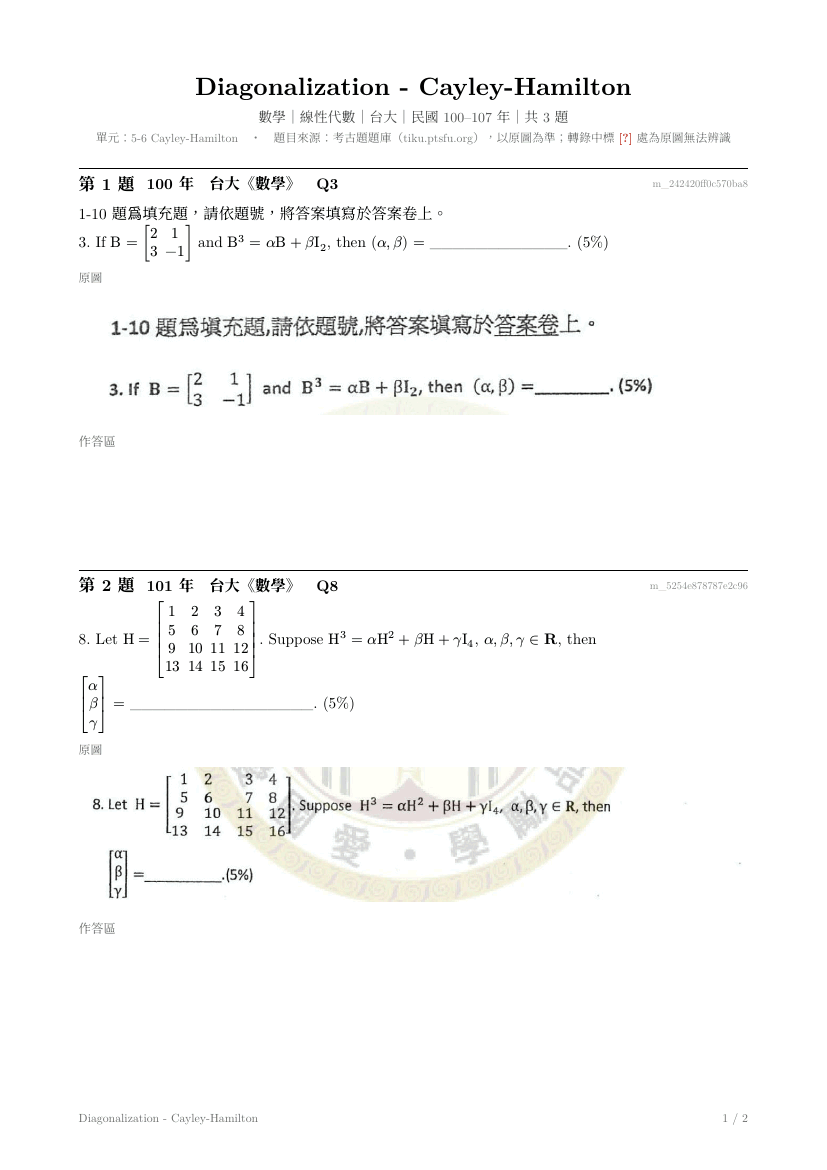
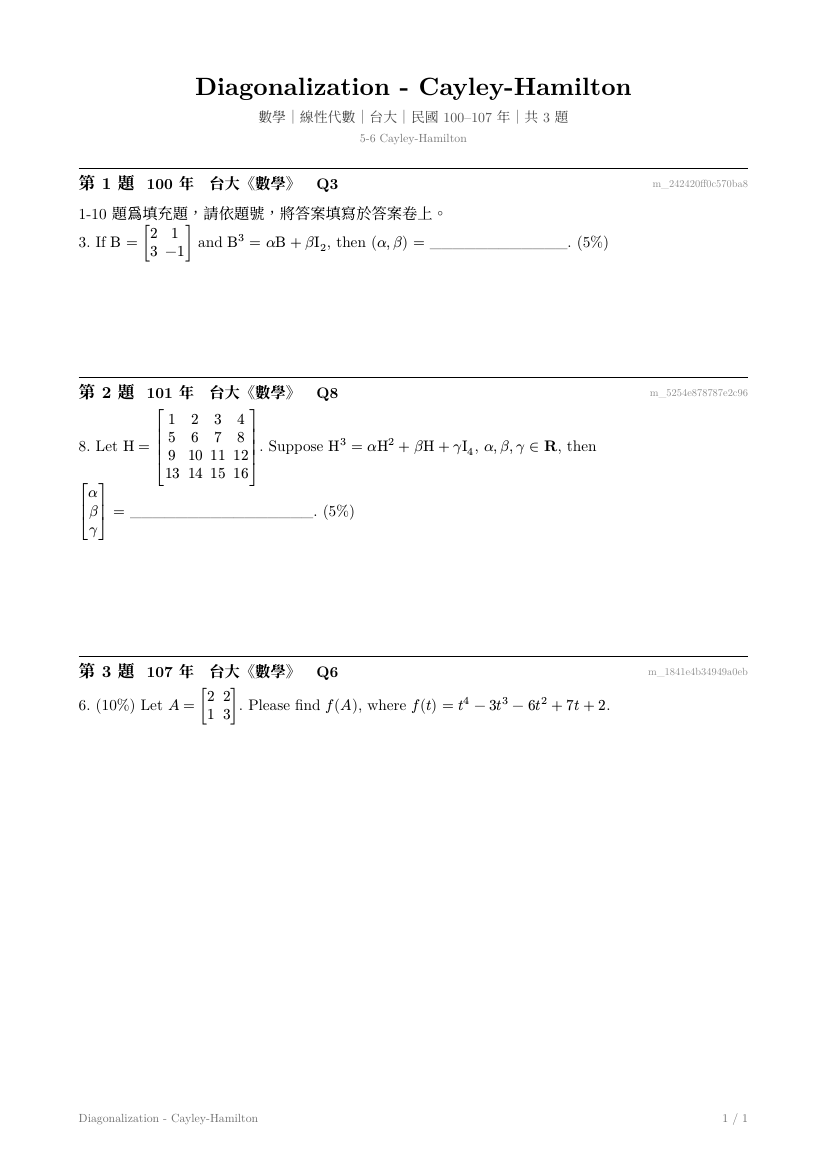
Workbook layout: drop full original images, labels and code shading
Per review of the trial:
- no full original image per question; only figures/diagrams are embedded,
  cropped from the original (fig directive in the transcription)
- code blocks have no background, for printing
- header keeps only the unit name; the source/disclaimer line is removed
- answer space is plain blank space without the 作答區 label
- previews regenerated

Claude-Session: https://claude.ai/code/session_01SnDy9j9kHdRMiHxdZ7c83s

diff --git a/Practice Exams/_tools/build.py b/Practice Exams/_tools/build.py
@@ -2,7 +2,10 @@
 
 Source folder layout (Practice Exams/_src/<group>/<chapter>/<chapter> - <topic>/):
   manifest.json   unit metadata + questions (id, year, school, paper, qnum, url)
-  <id>.md         hand transcription (Markdown + LaTeX math), one per question
+  <id>.md         hand transcription (Markdown + LaTeX math), one per question.
+                  A line `<!-- fig x0 y0 x1 y1 -->` (fractions of the deskewed original image)
+                  embeds that crop of the original -- used only for figures/diagrams,
+                  which are never redrawn.
   deskew.json     written by this script: detected skew angle per image
 
 Images are downloaded to a cache dir (default ~/.cache/tiku, override with TIKU_CACHE);
@@ -68,10 +71,34 @@ def prepare_image(q, skew):
     return out, w, h, info
 
 
-def md_to_typst(md_path):
+FIG_RE = re.compile(r"^<!--\s*fig\s+([\d.]+)\s+([\d.]+)\s+([\d.]+)\s+([\d.]+)\s*-->\s*$", re.M)
+
+
+def crop_figures(q, md_text, img_path):
+    """Replace fig directives with placeholders; return (md, {placeholder: typst call})."""
+    calls = {}
+
+    def sub(m):
+        k = len(calls)
+        x0, y0, x1, y1 = map(float, m.groups())
+        im = Image.open(img_path)
+        box = (round(x0 * im.width), round(y0 * im.height), round(x1 * im.width), round(y1 * im.height))
+        out = CACHE / "crop" / f"{q['id']}-{k}.jpg"
+        out.parent.mkdir(parents=True, exist_ok=True)
+        c = im.crop(box)
+        c.save(out, quality=90, optimize=True)
+        token = f"FIGCROP{k}XX"
+        # keep the figure at the scale it has on the original page (page width -> 17 cm)
+        calls[token] = f"#fig-crop({tstr(str(out))}, {c.width}, {c.height}, {x1 - x0:.3f})"
+        return token
+
+    return FIG_RE.sub(sub, md_text), calls
+
+
+def md_to_typst(md_text):
     r = subprocess.run(
-        ["pandoc", "--wrap=none", "-f", "markdown-fancy_lists-implicit_figures", "-t", "typst", str(md_path)],
-        capture_output=True, text=True, check=True)
+        ["pandoc", "--wrap=none", "-f", "markdown-fancy_lists-implicit_figures", "-t", "typst"],
+        input=md_text, capture_output=True, text=True, check=True)
     # plain monochrome code for printing: drop the language tag so typst does not colour it
     out = re.sub(r"^```\w+$", "```", r.stdout, flags=re.M)
     # pandoc does not escape typst list markers at line start ("2. ...", "+ ...", "- ...")
@@ -106,15 +133,20 @@ def build(src, out_pdf):
         md = src / f"{q['id']}.md"
         if not md.exists():
             raise SystemExit(f"missing transcription: {md}")
-        img, w, h, info = prepare_image(q, skew)
-        content = md_to_typst(md)
+        md_text = md.read_text()
+        calls = {}
+        if FIG_RE.search(md_text):
+            img, _, _, _ = prepare_image(q, skew)
+            md_text, calls = crop_figures(q, md_text, img)
+        content = md_to_typst(md_text)
+        for token, call in calls.items():
+            if token not in content:
+                raise SystemExit(f"figure placeholder lost for {q['id']}")
+            content = content.replace(token, call)
         src_line = f"{q['year']} 年　{q['school']}《{q['paper']}》　{q['qnum']}"
-        note = f"原圖（已校正歪斜 {abs(info['angle']):.1f}°）" if info["corrected"] else "原圖"
         body.append(f"""
 #question({i}, {tstr(src_line)}, {tstr(q['id'])})[
 {content}
-][
-#figure-orig({tstr(str(img))}, {w}, {h}, {tstr(note)})
 ]
 """)
     skew_path.write_text(json.dumps(skew, ensure_ascii=False, indent=1) + "\n")
@@ -133,23 +165,19 @@ def build(src, out_pdf):
 #show math.mat: it => math.display(it)
 #show math.cases: it => math.display(it)
 #show raw: set text(font: ("DejaVu Sans Mono", "Noto Serif TC"), size: 9.5pt)
-#show raw.where(block: true): it => block(width: 100%, fill: luma(246), inset: 7pt, radius: 2pt, it)
+#show raw.where(block: true): it => block(width: 100%, inset: (left: 1.2em, y: 4pt), it)
 #show "[?]": it => text(fill: rgb("#c0392b"), weight: "bold", it)
 #let blockquote(body) = block(inset: (left: 8pt), stroke: (left: 1.5pt + luma(170)), text(size: 9.5pt, fill: luma(70), body))
 #let horizontalrule = line(length: 100%, stroke: 0.5pt + luma(170))
 
-#let figure-orig(path, w, h, note) = {{
-  let maxw = 17cm
-  let maxh = 21cm
-  let width = calc.min(maxw / 1cm, maxh / 1cm * w / h) * 1cm
-  v(0.4em)
-  block(width: 100%, breakable: false, {{
-    text(size: 8.5pt, fill: luma(110), note)
-    align(center, box(stroke: 0.4pt + luma(190), image(path, width: width)))
-  }})
+// a figure cropped from the original scan (figures are embedded, never redrawn)
+#let fig-crop(path, w, h, frac) = {{
+  let maxh = 18cm
+  let width = calc.min(17 * frac, maxh / 1cm * w / h) * 1cm
+  block(width: 100%, align(center, image(path, width: width)))
 }}
 
-#let question(n, src, qid, body, fig) = {{
+#let question(n, src, qid, body) = {{
   // header + transcription stay together so a header never dangles at a page bottom
   block(width: 100%, breakable: false, {{
     line(length: 100%, stroke: 0.8pt)
@@ -161,9 +189,7 @@ def build(src, out_pdf):
     v(0.3em)
     body
   }})
-  fig
-  v(0.6em)
-  text(size: 9pt, fill: luma(110))[作答區]
+  // blank space for working / answers (about 4 lines)
   v(4 * 1.8em)
 }}
 
@@ -171,7 +197,7 @@ def build(src, out_pdf):
   #text(size: 18pt, weight: "bold", {tstr(title)}) \\
   #v(0.2em)
   #text(size: 10pt, fill: luma(80))[{group}｜{man['subject']}｜{schools}｜民國 100–107 年｜共 {len(qs)} 題] \\
-  #text(size: 8.5pt, fill: luma(120))[單元：{man['unit_key']}　・　題目來源：考古題題庫（tiku.ptsfu.org），以原圖為準；轉錄中標 [?] 處為原圖無法辨識]
+  #text(size: 8.5pt, fill: luma(120), {tstr(man['unit_key'])})
 ]
 #v(0.8em)
 {''.join(body)}

diff --git a/Practice Exams/_preview/README.md b/Practice Exams/_preview/README.md
@@ -1,73 +1,45 @@
 # 試跑題本預覽
 
-手機上 GitHub 不會預覽 Git LFS 存的 PDF，所以這裡把每一頁轉成圖片（100 dpi）。原始 PDF 和這些圖片在同一個分支。
+手機上 GitHub 不會預覽 Git LFS 存的 PDF，所以這裡把每一頁轉成圖片（100 dpi）。
 
 ## 數學｜Diagonalization - Cayley-Hamilton
 
-2 頁　・　[PDF](../%E6%95%B8%E5%AD%B8/Diagonalization/Diagonalization%20-%20Cayley-Hamilton.pdf)
+1 頁　・　[PDF](../%E6%95%B8%E5%AD%B8/Diagonalization/Diagonalization%20-%20Cayley-Hamilton.pdf)
 
 ![Diagonalization - Cayley-Hamilton 第 1 頁](%E6%95%B8%E5%AD%B8/Diagonalization/Diagonalization%20-%20Cayley-Hamilton/p-1.png)
 
-![Diagonalization - Cayley-Hamilton 第 2 頁](%E6%95%B8%E5%AD%B8/Diagonalization/Diagonalization%20-%20Cayley-Hamilton/p-2.png)
-
 ## 計系｜Process - Process Tree, fork(), wait(), Zombie, Orphan
 
-16 頁　・　[PDF](../%E8%A8%88%E7%B3%BB/Process/Process%20-%20Process%20Tree%2C%20fork%28%29%2C%20wait%28%29%2C%20Zombie%2C%20Orphan.pdf)
+8 頁　・　[PDF](../%E8%A8%88%E7%B3%BB/Process/Process%20-%20Process%20Tree%2C%20fork%28%29%2C%20wait%28%29%2C%20Zombie%2C%20Orphan.pdf)
 
-![Process - Process Tree, fork(), wait(), Zombie, Orphan 第 1 頁](%E8%A8%88%E7%B3%BB/Process/Process%20-%20Process%20Tree%2C%20fork%28%29%2C%20wait%28%29%2C%20Zombie%2C%20Orphan/p-01.png)
+![Process - Process Tree, fork(), wait(), Zombie, Orphan 第 1 頁](%E8%A8%88%E7%B3%BB/Process/Process%20-%20Process%20Tree%2C%20fork%28%29%2C%20wait%28%29%2C%20Zombie%2C%20Orphan/p-1.png)
 
-![Process - Process Tree, fork(), wait(), Zombie, Orphan 第 2 頁](%E8%A8%88%E7%B3%BB/Process/Process%20-%20Process%20Tree%2C%20fork%28%29%2C%20wait%28%29%2C%20Zombie%2C%20Orphan/p-02.png)
+![Process - Process Tree, fork(), wait(), Zombie, Orphan 第 2 頁](%E8%A8%88%E7%B3%BB/Process/Process%20-%20Process%20Tree%2C%20fork%28%29%2C%20wait%28%29%2C%20Zombie%2C%20Orphan/p-2.png)
 
-![Process - Process Tree, fork(), wait(), Zombie, Orphan 第 3 頁](%E8%A8%88%E7%B3%BB/Process/Process%20-%20Process%20Tree%2C%20fork%28%29%2C%20wait%28%29%2C%20Zombie%2C%20Orphan/p-03.png)
+![Process - Process Tree, fork(), wait(), Zombie, Orphan 第 3 頁](%E8%A8%88%E7%B3%BB/Process/Process%20-%20Process%20Tree%2C%20fork%28%29%2C%20wait%28%29%2C%20Zombie%2C%20Orphan/p-3.png)
 
-![Process - Process Tree, fork(), wait(), Zombie, Orphan 第 4 頁](%E8%A8%88%E7%B3%BB/Process/Process%20-%20Process%20Tree%2C%20fork%28%29%2C%20wait%28%29%2C%20Zombie%2C%20Orphan/p-04.png)
+![Process - Process Tree, fork(), wait(), Zombie, Orphan 第 4 頁](%E8%A8%88%E7%B3%BB/Process/Process%20-%20Process%20Tree%2C%20fork%28%29%2C%20wait%28%29%2C%20Zombie%2C%20Orphan/p-4.png)
 
-![Process - Process Tree, fork(), wait(), Zombie, Orphan 第 5 頁](%E8%A8%88%E7%B3%BB/Process/Process%20-%20Process%20Tree%2C%20fork%28%29%2C%20wait%28%29%2C%20Zombie%2C%20Orphan/p-05.png)
+![Process - Process Tree, fork(), wait(), Zombie, Orphan 第 5 頁](%E8%A8%88%E7%B3%BB/Process/Process%20-%20Process%20Tree%2C%20fork%28%29%2C%20wait%28%29%2C%20Zombie%2C%20Orphan/p-5.png)
 
-![Process - Process Tree, fork(), wait(), Zombie, Orphan 第 6 頁](%E8%A8%88%E7%B3%BB/Process/Process%20-%20Process%20Tree%2C%20fork%28%29%2C%20wait%28%29%2C%20Zombie%2C%20Orphan/p-06.png)
+![Process - Process Tree, fork(), wait(), Zombie, Orphan 第 6 頁](%E8%A8%88%E7%B3%BB/Process/Process%20-%20Process%20Tree%2C%20fork%28%29%2C%20wait%28%29%2C%20Zombie%2C%20Orphan/p-6.png)
 
-![Process - Process Tree, fork(), wait(), Zombie, Orphan 第 7 頁](%E8%A8%88%E7%B3%BB/Process/Process%20-%20Process%20Tree%2C%20fork%28%29%2C%20wait%28%29%2C%20Zombie%2C%20Orphan/p-07.png)
+![Process - Process Tree, fork(), wait(), Zombie, Orphan 第 7 頁](%E8%A8%88%E7%B3%BB/Process/Process%20-%20Process%20Tree%2C%20fork%28%29%2C%20wait%28%29%2C%20Zombie%2C%20Orphan/p-7.png)
 
-![Process - Process Tree, fork(), wait(), Zombie, Orphan 第 8 頁](%E8%A8%88%E7%B3%BB/Process/Process%20-%20Process%20Tree%2C%20fork%28%29%2C%20wait%28%29%2C%20Zombie%2C%20Orphan/p-08.png)
-
-![Process - Process Tree, fork(), wait(), Zombie, Orphan 第 9 頁](%E8%A8%88%E7%B3%BB/Process/Process%20-%20Process%20Tree%2C%20fork%28%29%2C%20wait%28%29%2C%20Zombie%2C%20Orphan/p-09.png)
-
-![Process - Process Tree, fork(), wait(), Zombie, Orphan 第 10 頁](%E8%A8%88%E7%B3%BB/Process/Process%20-%20Process%20Tree%2C%20fork%28%29%2C%20wait%28%29%2C%20Zombie%2C%20Orphan/p-10.png)
-
-![Process - Process Tree, fork(), wait(), Zombie, Orphan 第 11 頁](%E8%A8%88%E7%B3%BB/Process/Process%20-%20Process%20Tree%2C%20fork%28%29%2C%20wait%28%29%2C%20Zombie%2C%20Orphan/p-11.png)
-
-![Process - Process Tree, fork(), wait(), Zombie, Orphan 第 12 頁](%E8%A8%88%E7%B3%BB/Process/Process%20-%20Process%20Tree%2C%20fork%28%29%2C%20wait%28%29%2C%20Zombie%2C%20Orphan/p-12.png)
-
-![Process - Process Tree, fork(), wait(), Zombie, Orphan 第 13 頁](%E8%A8%88%E7%B3%BB/Process/Process%20-%20Process%20Tree%2C%20fork%28%29%2C%20wait%28%29%2C%20Zombie%2C%20Orphan/p-13.png)
-
-![Process - Process Tree, fork(), wait(), Zombie, Orphan 第 14 頁](%E8%A8%88%E7%B3%BB/Process/Process%20-%20Process%20Tree%2C%20fork%28%29%2C%20wait%28%29%2C%20Zombie%2C%20Orphan/p-14.png)
-
-![Process - Process Tree, fork(), wait(), Zombie, Orphan 第 15 頁](%E8%A8%88%E7%B3%BB/Process/Process%20-%20Process%20Tree%2C%20fork%28%29%2C%20wait%28%29%2C%20Zombie%2C%20Orphan/p-15.png)
-
-![Process - Process Tree, fork(), wait(), Zombie, Orphan 第 16 頁](%E8%A8%88%E7%B3%BB/Process/Process%20-%20Process%20Tree%2C%20fork%28%29%2C%20wait%28%29%2C%20Zombie%2C%20Orphan/p-16.png)
+![Process - Process Tree, fork(), wait(), Zombie, Orphan 第 8 頁](%E8%A8%88%E7%B3%BB/Process/Process%20-%20Process%20Tree%2C%20fork%28%29%2C%20wait%28%29%2C%20Zombie%2C%20Orphan/p-8.png)
 
 ## 資演｜Time Complexity - Master Method
 
-11 頁　・　[PDF](../%E8%B3%87%E6%BC%94/Time%20Complexity/Time%20Complexity%20-%20Master%20Method.pdf)
+6 頁　・　[PDF](../%E8%B3%87%E6%BC%94/Time%20Complexity/Time%20Complexity%20-%20Master%20Method.pdf)
 
-![Time Complexity - Master Method 第 1 頁](%E8%B3%87%E6%BC%94/Time%20Complexity/Time%20Complexity%20-%20Master%20Method/p-01.png)
+![Time Complexity - Master Method 第 1 頁](%E8%B3%87%E6%BC%94/Time%20Complexity/Time%20Complexity%20-%20Master%20Method/p-1.png)
 
-![Time Complexity - Master Method 第 2 頁](%E8%B3%87%E6%BC%94/Time%20Complexity/Time%20Complexity%20-%20Master%20Method/p-02.png)
+![Time Complexity - Master Method 第 2 頁](%E8%B3%87%E6%BC%94/Time%20Complexity/Time%20Complexity%20-%20Master%20Method/p-2.png)
 
-![Time Complexity - Master Method 第 3 頁](%E8%B3%87%E6%BC%94/Time%20Complexity/Time%20Complexity%20-%20Master%20Method/p-03.png)
+![Time Complexity - Master Method 第 3 頁](%E8%B3%87%E6%BC%94/Time%20Complexity/Time%20Complexity%20-%20Master%20Method/p-3.png)
 
-![Time Complexity - Master Method 第 4 頁](%E8%B3%87%E6%BC%94/Time%20Complexity/Time%20Complexity%20-%20Master%20Method/p-04.png)
+![Time Complexity - Master Method 第 4 頁](%E8%B3%87%E6%BC%94/Time%20Complexity/Time%20Complexity%20-%20Master%20Method/p-4.png)
 
-![Time Complexity - Master Method 第 5 頁](%E8%B3%87%E6%BC%94/Time%20Complexity/Time%20Complexity%20-%20Master%20Method/p-05.png)
+![Time Complexity - Master Method 第 5 頁](%E8%B3%87%E6%BC%94/Time%20Complexity/Time%20Complexity%20-%20Master%20Method/p-5.png)
 
-![Time Complexity - Master Method 第 6 頁](%E8%B3%87%E6%BC%94/Time%20Complexity/Time%20Complexity%20-%20Master%20Method/p-06.png)
-
-![Time Complexity - Master Method 第 7 頁](%E8%B3%87%E6%BC%94/Time%20Complexity/Time%20Complexity%20-%20Master%20Method/p-07.png)
-
-![Time Complexity - Master Method 第 8 頁](%E8%B3%87%E6%BC%94/Time%20Complexity/Time%20Complexity%20-%20Master%20Method/p-08.png)
-
-![Time Complexity - Master Method 第 9 頁](%E8%B3%87%E6%BC%94/Time%20Complexity/Time%20Complexity%20-%20Master%20Method/p-09.png)
-
-![Time Complexity - Master Method 第 10 頁](%E8%B3%87%E6%BC%94/Time%20Complexity/Time%20Complexity%20-%20Master%20Method/p-10.png)
-
-![Time Complexity - Master Method 第 11 頁](%E8%B3%87%E6%BC%94/Time%20Complexity/Time%20Complexity%20-%20Master%20Method/p-11.png)
+![Time Complexity - Master Method 第 6 頁](%E8%B3%87%E6%BC%94/Time%20Complexity/Time%20Complexity%20-%20Master%20Method/p-6.png)

diff --git a/Practice Exams/README.md b/Practice Exams/README.md
@@ -16,8 +16,10 @@ Practice Exams/
 
 - **出處**：年度、學校、卷名、題號（加上題庫的題目 ID，方便回查）
 - **轉錄文字**：逐張看原圖手打的 Markdown + LaTeX，不使用題庫的摘要文字。看不清楚的地方標紅色 **[?]**，不猜
-- **原圖**：從題庫的 `image_url` 下載的原圖，只校正明顯歪斜（≥ 0.75°）的圖；圖表就看原圖，不重畫
-- **作答區**：每題後面留約 4 行空白
+- **圖表**：不附整張原圖；題目有圖表時，從原圖裁切出圖表那一塊嵌入，不重畫（轉錄稿裡寫成 `<!-- fig x0 y0 x1 y1 -->`）。只校正明顯歪斜（≥ 0.75°）的圖
+- **空白**：每題後面留約 4 行空白，給作答和計算用
+
+程式碼不加底色，方便列印。
 
 字型：中文一律 Noto Serif TC，程式碼用 DejaVu Sans Mono，數學式用 New Computer Modern Math。
 「Computer Modern」用的是 New Computer Modern，也就是 LaTeX 預設字型 Computer Modern 的 OpenType 版本。
@@ -46,11 +48,12 @@ python _tools/check.py
 
 | 類別 | 單元 | 題數 | 頁數 | 結果 |
 |---|---|---:|---:|---|
-| 計系 | 作業系統 3-3 Process Tree, fork(), wait(), Zombie, Orphan | 10 | 16 | OK |
-| 資演 | 資料結構 1-7 Master Method | 13 | 11 | OK |
-| 數學 | 線性代數 5-6 Cayley-Hamilton | 3 | 2 | OK |
+| 計系 | 作業系統 3-3 Process Tree, fork(), wait(), Zombie, Orphan | 10 | 8 | OK |
+| 資演 | 資料結構 1-7 Master Method | 13 | 6 | OK |
+| 數學 | 線性代數 5-6 Cayley-Hamilton | 3 | 1 | OK |
 
 - `build_practice_set` 可以正常使用，`img.ptsfu.org` 的原圖也下載得到（要先在雲端環境的 Allowed domains 加上這個網域）。
 - 原圖裡會重複出現的頁首「【不可使用計算機】」沒有轉錄；作答規則（單選、複選、倒扣）有保留。
 - 102 交大《計算機系統》Q2 的 `runner` 函式，兩個大括號在原圖中印成實心黑色方塊，所以標成 [?]。
-- 三張圖因為明顯歪斜而校正過，角度見 `report.md`。
+- 第一版每題都附整張原圖；確認轉錄品質後改成只放轉錄文字，有圖表的題目才嵌入裁切的圖。
+- 手機上看的預覽圖在 `_preview/README.md`。

diff --git a/Practice Exams/_src/計系/Process/Process - Process Tree, fork(), wait(), Zombie, Orphan/m_89b51edd00d63d3e.md b/Practice Exams/_src/計系/Process/Process - Process Tree, fork(), wait(), Zombie, Orphan/m_89b51edd00d63d3e.md
@@ -6,7 +6,7 @@ In 2014, Taiwan Highway Commission officially discontinue the highway toll ticke
 
 The client server model shown below is the general application model to build such services. Mobile applications or web browsers are the user interfaces of the services. To serve the queries, a three-tier server model is adopted. In the model, there are a web server, application servers, and storage servers. The web server accepts the requests from mobile applications or web browsers, formats the query results in proper ways, and returns the formatted results. The applications conduct the computation logic, query the database server for required data, and compute the results. The storage servers store the user data, vehicle and travel information, and charge to the vehicle.
 
-**〔圖：Clients（Web Browsers、Mobiel Applications）經 Internet 連到 Servers（Web Server、Application Server ×3、Storage Server ×2）的架構圖，見下方原圖〕**
+<!-- fig 0.055 0.462 0.97 0.775 -->
 
 11\. (10 pts) All these servers are supposed to accept simultaneous requests, handled by either multiple processes or multiple threads in servers. Please answer the following questions.
 

diff --git a/Practice Exams/report.md b/Practice Exams/report.md
@@ -8,9 +8,9 @@
 
 | 類別 | 大類 | 主題 | 題數 | 頁數 | 檢查 |
 |---|---|---|---:|---:|---|
-| 數學 | Diagonalization | Diagonalization - Cayley-Hamilton | 3 | 2 | OK |
-| 計系 | Process | Process - Process Tree, fork(), wait(), Zombie, Orphan | 10 | 16 | OK |
-| 資演 | Time Complexity | Time Complexity - Master Method | 13 | 11 | OK |
+| 數學 | Diagonalization | Diagonalization - Cayley-Hamilton | 3 | 1 | OK |
+| 計系 | Process | Process - Process Tree, fork(), wait(), Zombie, Orphan | 10 | 8 | OK |
+| 資演 | Time Complexity | Time Complexity - Master Method | 13 | 6 | OK |
 
 ## 含 [?] 的題目
 
